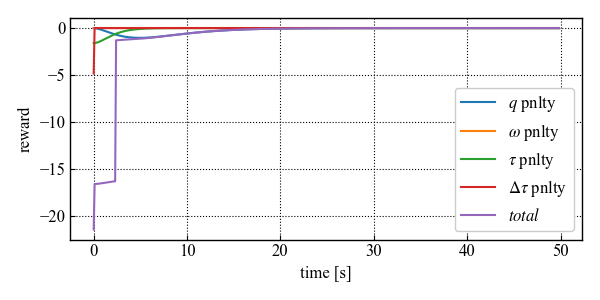
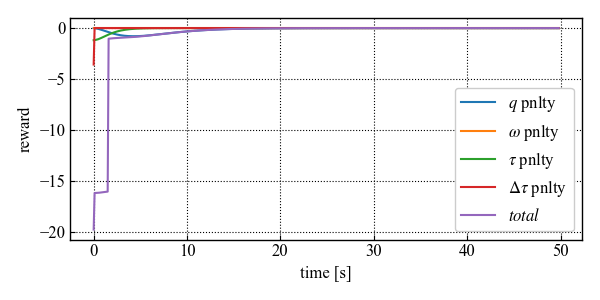
UPDATE: create time window

diff --git a/td3/train.py b/td3/train.py
@@ -114,7 +114,7 @@ def evaluate():
     k_hist = []
     alpha_hist = []
     d_hist = np.empty((0,9))
-    skip_num = 5
+    skip_num = int(input('Please enter number of skipping steps:'))
 
     dt = 0.1
     simutime = 50
@@ -145,13 +145,13 @@ def evaluate():
             Y = np.array([[alpha*dqe[1], alpha*dqe[2], alpha*dqe[3], W[0]*W[2], W[1]*W[2], W[2]*W[2], -W[0]*W[2], -W[1]*W[1], -W[1]*W[2]],
                 [-W[0]*W[2], -W[1]*W[2], -W[2]*W[2], alpha*dqe[1], alpha*dqe[2], alpha*dqe[3], W[0]*W[0], W[0]*W[1], W[0]*W[2]],
                 [W[0]*W[1], W[1]*W[1], W[1]*W[2], -W[0]*W[0], -W[0]*W[1], -W[0]*W[2], alpha*dqe[1], alpha*dqe[2], alpha*dqe[3]]])
-            input = -0.5*x1 -Y@th_e - k*x2
+            torque = -0.5*x1 -Y@th_e - k*x2
 
             dth = np.linalg.inv(D) @ Y.T @ x2
             th_e += env.dt*dth
             # env.est_th = ([th_e[0],th_e[4],th_e[8]]/np.diag(env.inertia) -1)/(env.max_multi-1)
             env.est_th = th_e.flatten()/25
-            next_error_state, reward, done, next_state, _ = env.step(input)
+            next_error_state, reward, done, next_state, _ = env.step(torque)
             # if i == 20/dt:
             #     env.inertia = env.inertia_comb
             #     env.inertia_inv = np.linalg.inv(env.inertia)
@@ -163,7 +163,7 @@ def evaluate():
             w=np.append(w,next_error_state[8:11].reshape(1,-1),axis=0)
             r += reward
             R = np.append(R,reward)
-            actions = np.append(actions, input.reshape(1,-1),axis=0)
+            actions = np.append(actions, torque.reshape(1,-1),axis=0)
             k_hist.append(k)
             alpha_hist.append(alpha)
             r_hist = np.append(r_hist, np.array([-env.r1,-env.r2,-env.r3,-env.r4]).reshape(1,-1),axis=0)
